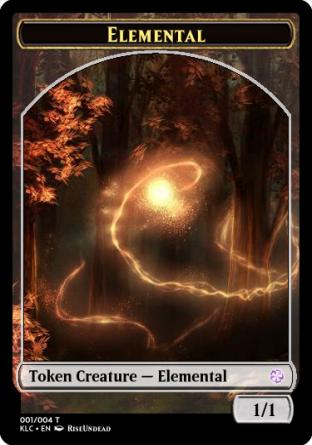
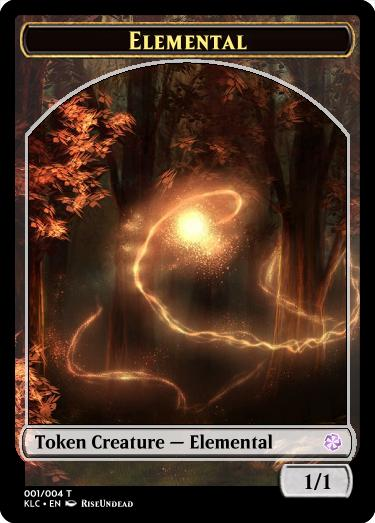
KLC update (#39)
* Implemented the remaining KLC cards.

* Update Paranoia implementation.

* Update KLC card and token pics

* Add reminder text for Horrific

* Update README

---------

diff --git a/MSEM/README.md b/MSEM/README.md
@@ -32,10 +32,7 @@ Video Horror System (VHS)             -  95% (82/86)
     * Snowfield Doppelganger
     * Wiretapper
     * Mr. Jackston, the Proprietor
-Kaleidoscope (KLC)                    -  98% (106/108)
-  Missing cards:
-    * Chronic Traitor: TODO Check for Paranoia paid
-    * Kofe-District Scholar: TODO Check for Paranoia paid
+Kaleidoscope (KLC)                    -  100% (108/108)
 Path of Shadows (PSA)                 -  35% (76/214)
 A Tourney at Whiterun (TWR)           -  11% (32/269)
 Tides of War (TOW)                    -  28% (77/271)
@@ -198,7 +195,7 @@ Implementation:
 
 ```text
 T:Mode$ ChangesZone | TriggerZones$ Hand | ValidCard$ Permanent.YouCtrl | Origin$ Battlefield | Destination$ Any | Execute$ PayParanoia | TriggerDescription$ Paranoia {G} (You may cast this spell for its paranoia cost when a permanent you control leaves the battlefield.)
-SVar:PayParanoia:DB$ Play | PlayCost$ G | ValidSA$ Spell.Self | Controller$ You | ValidZone$ Hand | Optional$ True
+SVar:PayParanoia:DB$ Play | Named$ Paranoia | PlayCost$ G | ValidSA$ Spell.Self | Controller$ You | ValidZone$ Hand | Optional$ True
 ```
 
 [Jump to top](#keywords-and-mechanisms-implementation)
@@ -242,3 +239,4 @@ SVar:DBLoseLifeFallback:DB$ LoseLife | Defined$ You | LifeAmount$ 3
 ```
 
 [Jump to top](#keywords-and-mechanisms-implementation)
+
